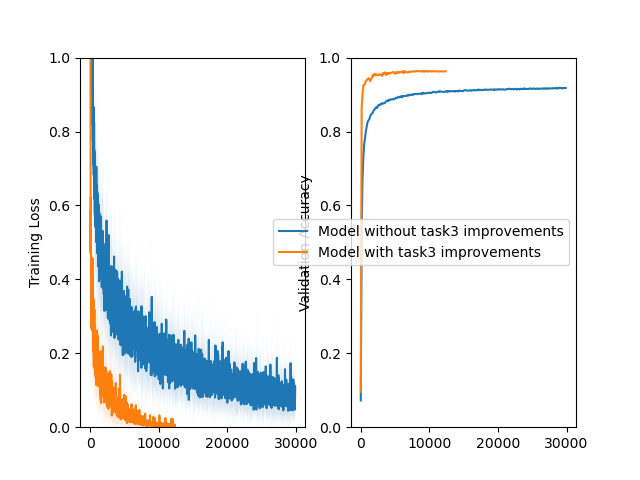
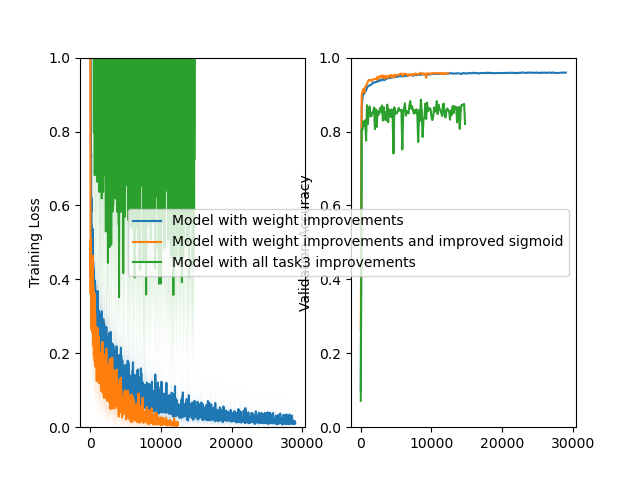
Fixed task3 mostly, still some bugs

diff --git a/assignment2/task3.py b/assignment2/task3.py
@@ -1,7 +1,8 @@
 import utils
 import matplotlib.pyplot as plt
-from task2a import pre_process_images, one_hot_encode, SoftmaxModel
+from task2a import pre_process_images, one_hot_encode, sigmoid, sigmoid_derivative, improved_sigmoid, improved_sigmoid_derivative, SoftmaxModel
 from task2 import SoftmaxTrainer
+
 
 
 def main():
@@ -15,9 +16,6 @@ def main():
     momentum_gamma = .9  # Task 3 hyperparameter
     
     shuffle_data = True
-    use_improved_sigmoid = False
-    use_improved_weight_init = False
-    use_momentum = False
     use_relu = False
 
     # Load dataset
@@ -45,11 +43,12 @@ def main():
     
     #1 - Training a model with weight initialization enabled 
     
+
     print("First model ")
     use_improved_sigmoid = False
-    use_improved_weight_init = False
+    use_improved_weight_init = True
     use_momentum = False
-    
+    learning_rate = .1
     
     # Load dataset 
     X_train1, Y_train1, X_val1, Y_val1 = utils.load_full_mnist()
@@ -59,11 +58,6 @@ def main():
     Y_val1 = one_hot_encode(Y_val1, 10)
 
     
-
-
-    #commented out, and rewritten below. this is to answer tasks from 4a and 4b
-    # Task 3
-    # Initialise two models, one without improvements from 3 and one with
     weightmodel = SoftmaxModel(
         neurons_per_layer,
         use_improved_sigmoid,
@@ -77,12 +71,14 @@ def main():
     train_history1, val_history1 = weighttrainer.train(num_epochs)
     
     
-    #2 - Training a model with task3 improvements
+    #2 - Training a model with improved sigmoid
     print("Second model ")
+    
     use_improved_sigmoid = True
     use_improved_weight_init = True
-    use_momentum = True
-    learning_rate = 0.02
+    use_momentum = False
+    learning_rate = .1
+    
     
     # Load dataset
     X_train2, Y_train2, X_val2, Y_val2 = utils.load_full_mnist()
@@ -102,105 +98,67 @@ def main():
         X_train2, Y_train2, X_val2, Y_val2,
     )
     train_history2, val_history2 = improvedtrainer.train(num_epochs)
+    
+
+    
+    #3 - Training a model with all improvements enabled
+    print("Third model")
+    learning_rate = 0.02
+    use_improved_sigmoid = True
+    use_improved_weight_init = True
+    use_momentum = True
+    momentum_gamma1 = .9 
+    
+    
+    # Load dataset
+    X_train3, Y_train3, X_val3, Y_val3 = utils.load_full_mnist()
+    X_train3 = pre_process_images(X_train3)
+    X_val3 = pre_process_images(X_val3)
+    Y_train3 = one_hot_encode(Y_train3, 10)
+    Y_val3 = one_hot_encode(Y_val3, 10)
+    
+    finalmodel = SoftmaxModel(
+        neurons_per_layer,
+        use_improved_sigmoid,
+        use_improved_weight_init,
+        use_relu)
+    finaltrainer= SoftmaxTrainer(
+        momentum_gamma1, use_momentum,
+        finalmodel, learning_rate, batch_size, shuffle_data,
+        X_train3, Y_train3, X_val3, Y_val3,
+    )
+    train_history3, val_history3 = finaltrainer.train(num_epochs)
     
 
 
 
     #task 4a and 4b
     #Training 2 a model with task3 improvements, but different archtecture
-    """
-    print("First model ")
-    use_improved_sigmoid = True
-    use_improved_weight_init = True
-    use_momentum = True
-    learning_rate = 0.02
-    
-    # Load dataset
-    X_train2, Y_train2, X_val2, Y_val2 = utils.load_full_mnist()
-    X_train2 = pre_process_images(X_train2)
-    X_val2 = pre_process_images(X_val2)
-    Y_train2 = one_hot_encode(Y_train2, 10)
-    Y_val2 = one_hot_encode(Y_val2, 10)
-    
-    improvedmodel = SoftmaxModel(
-        neurons_per_layer_4a,
-        use_improved_sigmoid,
-        use_improved_weight_init,
-        use_relu)
-    improvedtrainer = SoftmaxTrainer(
-        momentum_gamma, use_momentum,
-        improvedmodel, learning_rate, batch_size, shuffle_data,
-        X_train2, Y_train2, X_val2, Y_val2,
-    )
-    train_history1, val_history1 = improvedtrainer.train(num_epochs)
-
-
-    print("Second model ")
-    use_improved_sigmoid = True
-    use_improved_weight_init = True
-    use_momentum = True
-    learning_rate = 0.02
-    
-    # Load dataset
-    X_train2, Y_train2, X_val2, Y_val2 = utils.load_full_mnist()
-    X_train2 = pre_process_images(X_train2)
-    X_val2 = pre_process_images(X_val2)
-    Y_train2 = one_hot_encode(Y_train2, 10)
-    Y_val2 = one_hot_encode(Y_val2, 10)
-    
-    improvedmodel = SoftmaxModel(
-        neurons_per_layer_4b,
-        use_improved_sigmoid,
-        use_improved_weight_init,
-        use_relu)
-    improvedtrainer = SoftmaxTrainer(
-        momentum_gamma, use_momentum,
-        improvedmodel, learning_rate, batch_size, shuffle_data,
-        X_train2, Y_train2, X_val2, Y_val2,
-    )
-    train_history2, val_history2 = improvedtrainer.train(num_epochs)
-    """
-   
-    
     
     
     # YOU CAN DELETE EVERYTHING BELOW!
-    """
-    shuffle_data = False
-    # Train a new model with new parameters
-    model_no_shuffle = SoftmaxModel(
-        neurons_per_layer,
-        use_improved_sigmoid,
-        use_improved_weight_init,
-        use_relu)
-    trainer_shuffle = SoftmaxTrainer(
-        momentum_gamma, use_momentum,
-        model_no_shuffle, learning_rate, batch_size, shuffle_data,
-        X_train, Y_train, X_val, Y_val,
-    )
-    train_history_no_shuffle, val_history_no_shuffle = trainer_shuffle.train(
-        num_epochs)
-    """
     
 
 
     #Commented out here and changed below for task 4a and 4b
+
     # task 3
     # Plotting the loss and accuracy
     
     plt.subplot(1, 2, 1)  
     plt.ylim([0, 1])
     
-    utils.plot_loss(train_history1["loss"], "Model without task3 improvements", npoints_to_average=10)
-    utils.plot_loss(train_history2["loss"], "Model with task3 improvements", npoints_to_average=10)
-   
+    utils.plot_loss(train_history1["loss"], "Model with weight improvements", npoints_to_average=10)
+    utils.plot_loss(train_history2["loss"], "Model with weight improvements and improved sigmoid", npoints_to_average=10)
+    utils.plot_loss(train_history3["loss"], "Model with all task3 improvements", npoints_to_average=10)
     plt.ylabel("Training Loss")
     
     plt.subplot(1, 2, 2)  
     plt.ylim([0,1])
     
-    utils.plot_loss(val_history1["accuracy"], "Model without task3 improvements")
-    utils.plot_loss(val_history2["accuracy"], "Model with task3 improvements")
+    utils.plot_loss(val_history1["accuracy"], "Model with weight improvements")
+    utils.plot_loss(val_history2["accuracy"], "Model with weight improvements and improved sigmoid")
+    utils.plot_loss(val_history3["accuracy"], "Model with all task3 improvements")
     plt.ylabel("Validation Accuracy")
 
 

diff --git a/assignment2/task2a.py b/assignment2/task2a.py
@@ -43,14 +43,13 @@ def cross_entropy_loss(targets: np.ndarray, outputs: np.ndarray):
 
  
 #Task 3b) defining improved sigmoid function and derivative
-def sigmoid(self, x):
+def sigmoid(x):
     return 1 / (1 + np.exp(-x))
-def improved_sigmoid(self, x):
+def improved_sigmoid(x):
     return 1.7159 * np.tanh(2/3 * x)
-
-def sigmoid_derivative(self,  x):
+def sigmoid_derivative(x):
     return x * (1 - x)
-def improved_sigmoid_derivative(self, x):
+def improved_sigmoid_derivative(x):
     return 1.7159 * 2/3 * (1 - np.tanh(2/3 * x)**2)
 
 class SoftmaxModel:
@@ -81,6 +80,7 @@ class SoftmaxModel:
         # A hidden layer with 64 neurons and a output layer with 10 neurons.
         self.neurons_per_layer = neurons_per_layer
 
+
         # Initialize the weights
         self.ws = []
         prev = self.I
@@ -100,13 +100,14 @@ class SoftmaxModel:
         
         #task 3b) improved sigmoid init. Checks if use_improved_sigmoid is true.
         # If not, use normal sigmoid function.
+        
         if self.use_improved_sigmoid:
             self.sigmoid = improved_sigmoid
             self.sigmoid_derivative = improved_sigmoid_derivative
         else:
             self.sigmoid = sigmoid
             self.sigmoid_derivative = sigmoid_derivative
-                     
+                    
         
         
         #new ones;
@@ -132,12 +133,12 @@ class SoftmaxModel:
         batch_size= X.shape[0]
         
         #input to hidden layer.
-        z2= -np.dot(X, self.ws[0])
-        #output from hidden layer (using sigmoid func)
-        #a2= self.sigmoid(z2)
+        z2= np.dot(X, self.ws[0])
+        #output from hidden layer (using sigmoid func), one hidden layer
+        a2= self.sigmoid(z2)
         
         #output from hidden layer (using sigmoid func)
-        a2= 1 / (1 + np.exp(z2))
+        #a2= 1 / (1 + np.exp(z2))
         
         #save it to self for use in backward function
         self.hidden_layer_output=a2
@@ -176,7 +177,8 @@ class SoftmaxModel:
 
         #hidden layer (using chain rule)
         error_hidden = np.dot(error_output, self.ws[1].T)
-        d_sigmoid_hidden = self.hidden_layer_output * (1- self.hidden_layer_output)
+        d_sigmoid_hidden = self.sigmoid_derivative(self.hidden_layer_output)
+        #d_sigmoid_hidden = self.hidden_layer_output * (1- self.hidden_layer_output)
         grad_hidden = error_hidden * d_sigmoid_hidden
         self.grads[0] = np.dot(X.T, grad_hidden) / (batch_size)
 
@@ -263,7 +265,7 @@ def main():
     ), f"Expected X_train to have 785 elements per image. Shape was: {X_train.shape}"
 
     neurons_per_layer = [64, 10]
-    use_improved_sigmoid = True
+    use_improved_sigmoid = False
     use_improved_weight_init = True
     use_relu = True
     model = SoftmaxModel(
